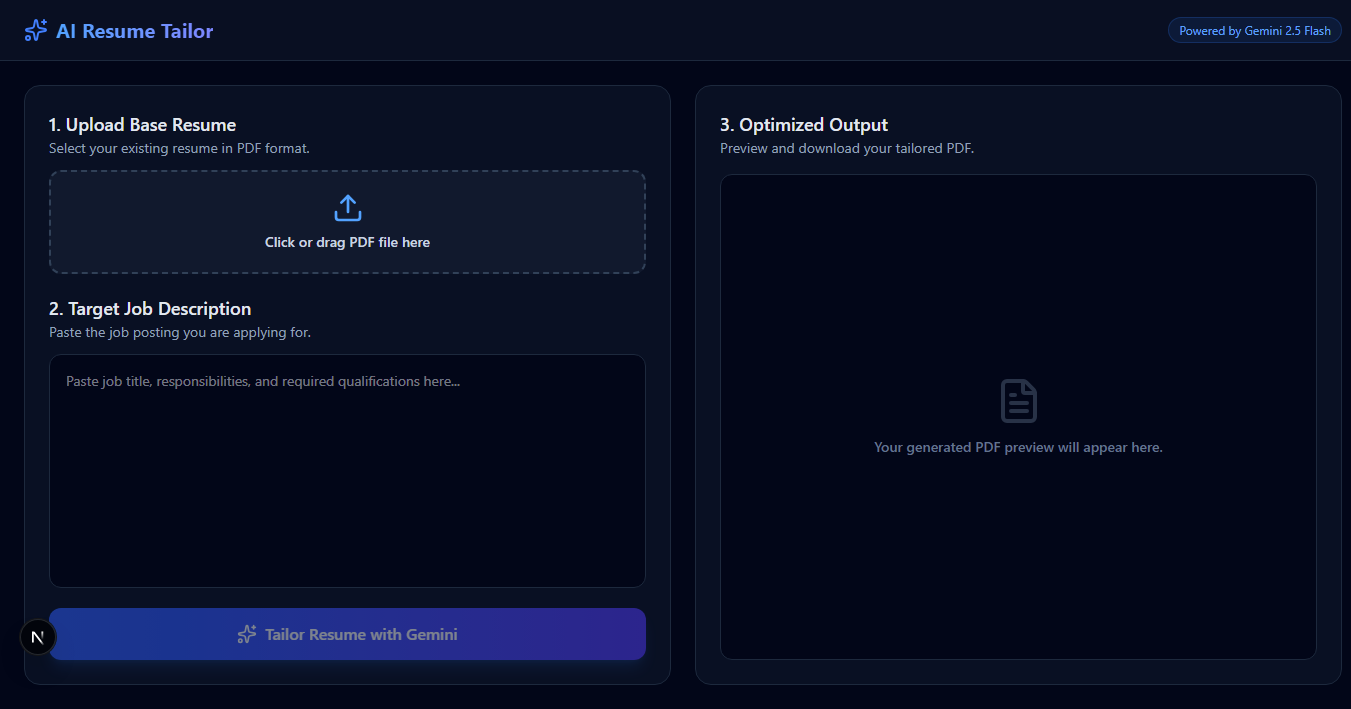
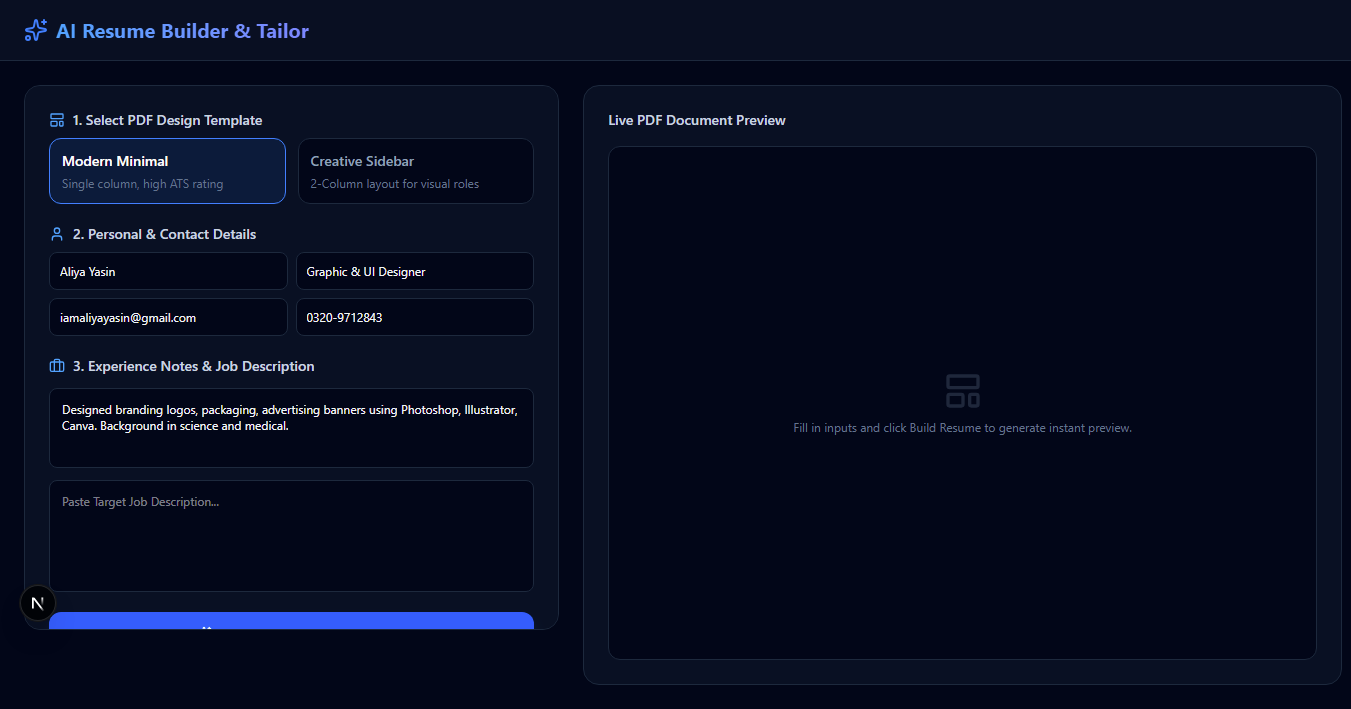
Adding Screenshots

diff --git a/README.md b/README.md
@@ -14,6 +14,12 @@ An interactive full-stack web application that allows users to pick professional
 
 ---
 
+## 📸 Screenshot
+
+![AI-Resume-Builder](screenshots/demo.png)
+
+---
+
 ## 🛠 Tech Stack
 
 * **Framework:** Next.js (App Router, TypeScript)
